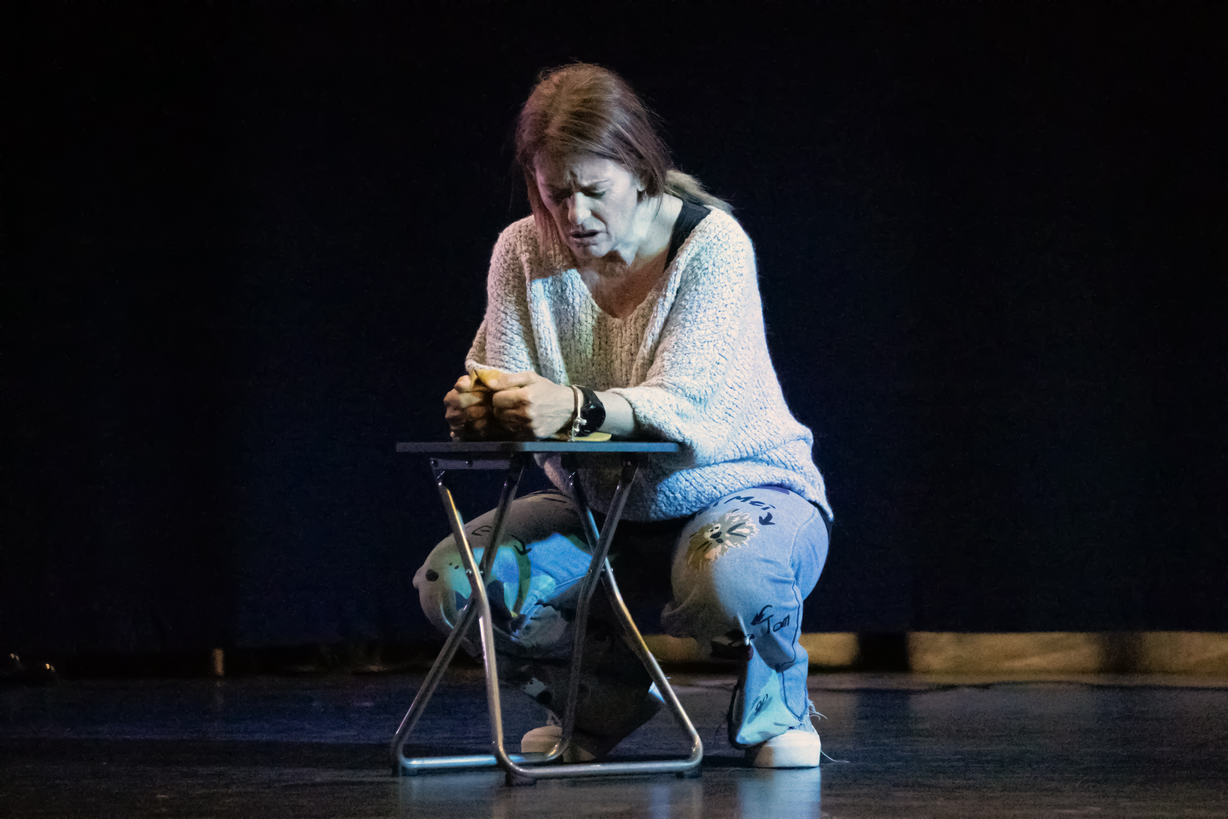
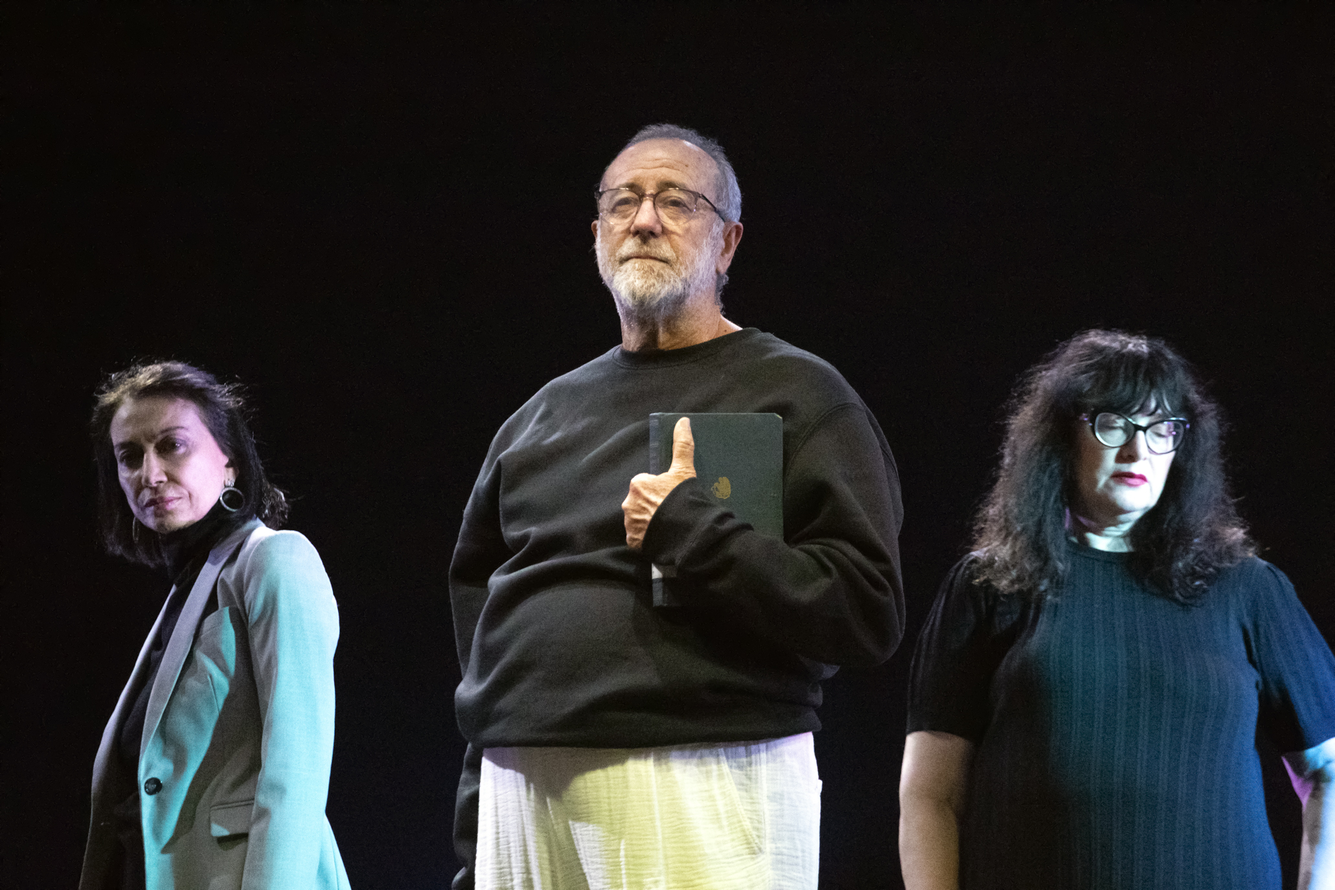
correcciones index y portada afonía de un ruiseñor

diff --git a/index.html b/index.html
@@ -12,7 +12,7 @@
   <aside class="side-menu" id="sideMenu">
     <button class="close-btn" id="closeMenu" aria-label="Cerrar menú">&times;</button>
     <nav class="side-nav">
-      <a href="index.html">Introducción</a>
+      <a href="index.html">Conócenos</a>
       <a href="resources.html">Recursos</a>
       <a href="news.html">Actividades y noticias</a>
       <a href="staff.html">Staff only</a>
@@ -36,7 +36,7 @@
   </div>
 
   <nav class="top-nav" id="topNav">
-    <a href="#hero">Sobre nosotros</a>
+    <a href="#hero">¿Quiénes somos?</a>
     <a href="#obras">Obras</a>
     <a href="#eventos">Eventos</a>
     <a href="#logo">Nuestro logo</a>
